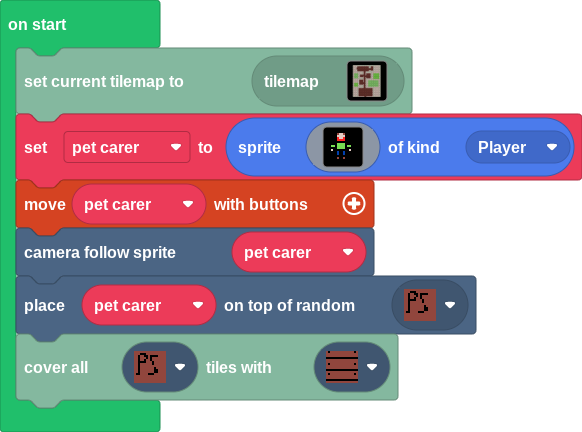
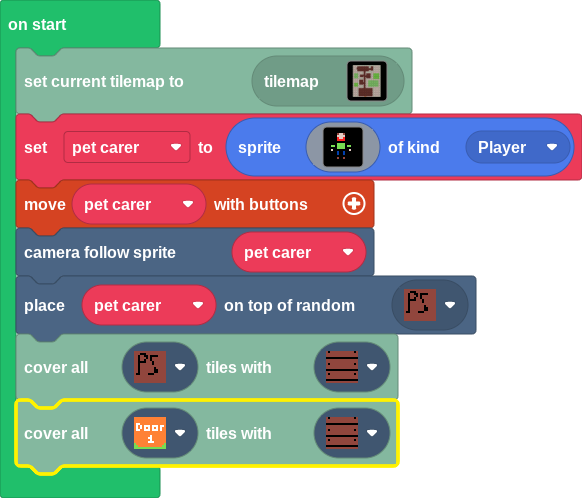
Update main.blocks, main.ts, tilemap.g.jres, tilemap.g.ts

diff --git a/tilemap.g.ts b/tilemap.g.ts
@@ -38,7 +38,7 @@ namespace myTiles {
     helpers._registerFactory("tilemap", function(name: string) {
         switch(helpers.stringTrim(name)) {
             case "home":
[2 lines of base64/hex data omitted]
 ...........................................
 ......22222222222222222222.222222..........
 ......2..................2.2....2..........
@@ -89,7 +89,7 @@ namespace myTiles {
 ........2......................2...........
 ........2......................2...........
 ........2222222222...22222222222...........
-`, [myTiles.transparency16,sprites.builtin.brick,myTiles.tile1,myTiles.tile2,sprites.castle.tilePath2,sprites.castle.tilePath1,sprites.castle.tilePath3,sprites.castle.tilePath4,sprites.castle.tilePath7,sprites.castle.tilePath8,sprites.castle.tilePath9,sprites.castle.tilePath6,myTiles.tile4,myTiles.tile5,sprites.castle.tilePath5,myTiles.tile3,myTiles.tile6,myTiles.tile7,myTiles.tile8,myTiles.tile9,myTiles.tile10,myTiles.tile11,myTiles.tile12,myTiles.tile13,myTiles.tile14,myTiles.tile15,myTiles.tile16,sprites.castle.tileGrass2,sprites.castle.tileGrass1], TileScale.Sixteen);
+`, [myTiles.transparency16,sprites.builtin.brick,myTiles.tile1,myTiles.tile2,sprites.castle.tilePath2,sprites.castle.tilePath1,sprites.castle.tilePath3,sprites.castle.tilePath4,sprites.castle.tilePath7,sprites.castle.tilePath8,sprites.castle.tilePath9,sprites.castle.tilePath6,myTiles.tile4,myTiles.tile5,sprites.castle.tilePath5,myTiles.tile3,myTiles.tile6,myTiles.tile7,myTiles.tile8,myTiles.tile9,myTiles.tile10,myTiles.tile11,myTiles.tile12,myTiles.tile13,myTiles.tile14,myTiles.tile15,myTiles.tile16,sprites.castle.tileGrass2,sprites.castle.tileGrass1,tiles.util.door5], TileScale.Sixteen);
         }
         return null;
     })

diff --git a/main.ts b/main.ts
@@ -4,3 +4,4 @@ controller.moveSprite(pet_carer)
 scene.cameraFollowSprite(pet_carer)
 tiles.placeOnRandomTile(pet_carer, assets.tile`myTile0`)
 tiles.coverAllTiles(assets.tile`myTile0`, assets.tile`myTile`)
+tiles.coverAllTiles(tiles.util.door5, assets.tile`myTile`)
